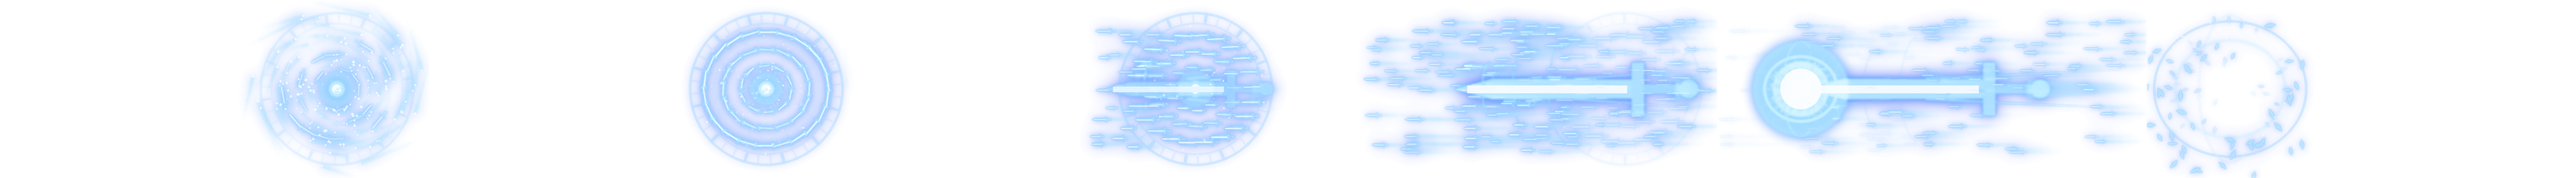
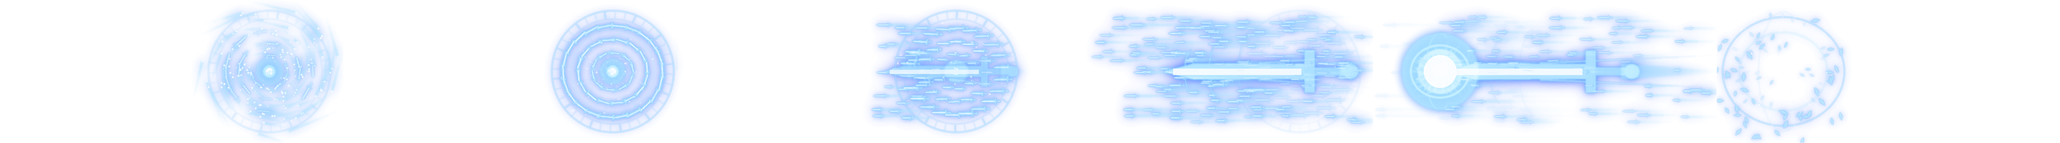
Chiêu Kiếm kéo dài 3 giây: 72 khung 24fps; dừng đồng hồ khi ra chiêu, máu quái tụt lúc nổ
fx/kiem.webp 72 khung (lưới 8x9, ô 480x200). Câu tiếp hiện khi chiêu gần xong (Enter để bỏ qua),
đồng hồ trận tạm dừng trong lúc diễn nên không mất giờ. ?v=20261127d

Claude-Session: https://claude.ai/code/session_01WRSCxLDvN3nPvcbD5zp5MC

diff --git a/hoc-tieng-trung/rpg.js b/hoc-tieng-trung/rpg.js
@@ -545,7 +545,7 @@ function gArSpawn(html, x, y, ms) { // x, y: % trong sân đấu
 // hoạt ảnh đòn đánh thường theo nhân vật: sprite sheet PNG/WebP trong suốt (fx/<id>.*, tạo bằng tools/fx/gen_<id>.py)
 // n khung xếp lưới cols cột (hàng tự tính), chạy theo đồng hồ thật (requestAnimationFrame) nên không khựng.
 // fps: tốc độ đều; hoặc ms: [thời gian từng khung] (vd sheet 6 ô vẽ bằng AI). hit: khung quái bắt đầu trúng đòn (nổ)
-const GASH = { kiem: { src: 'fx/kiem.webp', n: 24, cols: 6, fps: 30, hit: 16 } };
+const GASH = { kiem: { src: 'fx/kiem.webp', n: 72, cols: 8, fps: 24, hit: 50 } };
 const gAshOf = () => GASH[(S.hero && S.hero.char) || 'kiem'];
 function gPreloadAsh() { const a = gAshOf(); if (a && !a.img) { a.img = new Image(); a.img.src = a.src; } }
 function gAtkSheet(ar) {
@@ -569,7 +569,7 @@ function gAtkSheet(ar) {
   };
   show(0); cur = 0; requestAnimationFrame(tick);
   const hit = a.hit != null ? a.hit : Math.round(n * 2 / 3);
-  return { hitAt: hit ? ends[hit - 1] : 0 };
+  return { hitAt: hit ? ends[hit - 1] : 0, dur: ends[n - 1] };
 }
 // kind: 'atk' (mình đánh trúng), 'miss' (mình đánh trượt), 'hurt' (quái gây sát thương khi trả lời sai), 'block' (đỡ được), 'dot' (độc)
 function gArenaFx(kind, o) {
@@ -583,6 +583,7 @@ function gArenaFx(kind, o) {
       if (!sh) gArSpawn('<div class="ar-sl"></div>', 6, 38, 400); if (o.crit) { gArSpawn('<div class="ar-sl" style="transform:rotate(30deg)"></div>', 8, 30, 400); gArReplay(ar, 'quake'); }
       gArSpawn(`<div class="ar-n ${o.crit ? 'crit' : ''}">${o.crit ? '<small style="font-size:15px">CHÍ MẠNG</small><br>' : ''}-${o.dmg}</div>`, 25, 20);
     }, sh ? sh.hitAt : 160);
+    return sh;
   } else if (kind === 'miss') {
     gArReplay(P, 'lunge'); setTimeout(() => { gArReplay(B, 'dodge'); gArSpawn('<div class="ar-n info">Trượt!</div>', 24, 22); }, 160);
   } else if (kind === 'hurt' || kind === 'block') {
@@ -628,7 +629,7 @@ function gAnswer(i) {
   const btns = [...document.querySelectorAll('#gb-o .opt')];
   btns[i].classList.add(right ? 'ok' : 'no'); const okIdx = q.opts.findIndex(o => o.ok); btns[okIdx].classList.add('ok');
   if (q.speakOnAnswer && q.word) speak(q.word);
-  let log = '', ult = null;
+  let log = '', ult = null, fxs = null;
   const dr = rpgOnAnswer(right);
   if (dr) GB.drops.push(dr);
   if (right) {
@@ -644,7 +645,7 @@ function gAnswer(i) {
       const uh = gHit(), ud = Math.round((uh.miss ? Math.max(1, GB.st.atk * GB.mu.dmg - W.def * .5) : uh.dmg) * GULT_MULT * (window.fxUltMul ? fxUltMul() : 1)), ue = gUltEl();
       total += ud; ult = ue; log = `🌟 <b>Chiêu cuối ${GULT[ue].h} ${esc(GULT[ue].n)}</b>: ${ud} sát thương<br>` + log;
     }
-    if (total && !ult) gArenaFx('atk', { dmg: total, crit: h.crit });
+    if (total && !ult) fxs = gArenaFx('atk', { dmg: total, crit: h.crit });
     if (total) {
       W.hp = Math.max(0, W.hp - total); W.dmg += total; GB.dmg += total;
       if (GB.st.fx.vamp) { const hl = Math.round(total * GB.st.fx.vamp / 100); GB.php = Math.min(GB.pmax, GB.php + hl); if (hl) log += ` · hồi ${hl} HP`; }
@@ -659,7 +660,8 @@ function gAnswer(i) {
     if (bs.ab === 'time') { GB.endAt -= 4000; log += ' · -4 giây'; }
     if (bs.ab === 'poison') { GB.poison = Math.min(5, GB.poison + 1); log += ` · trúng độc x${GB.poison}`; }
   }
-  gBars();
+  // có hoạt ảnh chiêu riêng: thanh máu quái tụt đúng lúc kiếm khí nổ
+  if (fxs) { setTimeout(() => { if (GB && !GB.over) gBars(); }, fxs.hitAt); } else gBars();
   $('#gb-log').innerHTML = `${log}<div class="mut" style="margin-top:4px">${q.expl}</div>${dr ? gDropHTML(dr) : ''}`;
   // sang câu tiếp: tự động sau 1,1 giây (sai: 1,7 giây) hoặc ngay khi bấm Enter (GB.goNext)
   const goQ = () => {
@@ -669,10 +671,16 @@ function gAnswer(i) {
     gNextQ();
   };
   const next = () => {
-    if (W.hp <= 0) return setTimeout(() => gEndBattle('win'), 900);
+    if (W.hp <= 0) return setTimeout(() => gEndBattle('win'), 900 + (fxs ? fxs.hitAt : 0));
     if (GB.php <= 0) return setTimeout(() => gEndBattle('dead'), 900);
     GB.goNext = goQ; GB.nt = setTimeout(goQ, right ? 1100 : 1700);
   };
+  if (fxs) { // hoạt ảnh chiêu dài (vd Kiếm 3 giây): dừng đồng hồ, câu tiếp hiện khi chiêu xong (Enter để bỏ qua)
+    GB.pauseAt = Date.now(); const tm = $('#gb-tm'); if (tm) tm.textContent = '⏸';
+    if (W.hp <= 0) return next();
+    GB.goNext = goQ; GB.nt = setTimeout(goQ, Math.max(1100, fxs.dur - 250));
+    return;
+  }
   if (!ult) return next();
   // chiêu cuối: dừng đồng hồ từ lúc tung chiêu đến khi câu hỏi mới hiện ra
   GB.pauseAt = Date.now(); const tm = $('#gb-tm'); if (tm) tm.textContent = '⏸';

diff --git a/hoc-tieng-trung/index.html b/hoc-tieng-trung/index.html
@@ -103,7 +103,7 @@ img[src*="chars/"]{background:radial-gradient(circle at 50% 42%,#5a5288 0%,#2a26
 </style>
 <link rel="preconnect" href="https://fonts.googleapis.com"><link rel="preconnect" href="https://fonts.gstatic.com" crossorigin>
 <link rel="stylesheet" href="https://fonts.googleapis.com/css2?family=Noto+Serif:wght@600;700&display=swap">
-<link rel="stylesheet" href="theme.css?v=20261127c">
+<link rel="stylesheet" href="theme.css?v=20261127d">
 </head>
 <body>
 <div class="wrap">
@@ -131,9 +131,9 @@ img[src*="chars/"]{background:radial-gradient(circle at 50% 42%,#5a5288 0%,#2a26
 <script src="audio-data.js"></script>
 <script src="avatars-data.js"></script>
 <script src="game-data.js"></script>
-<script src="rpg-data.js?v=20261127c"></script>
-<script src="rpg.js?v=20261127c"></script>
-<script src="ult-fx.js?v=20261127c"></script>
+<script src="rpg-data.js?v=20261127d"></script>
+<script src="rpg.js?v=20261127d"></script>
+<script src="ult-fx.js?v=20261127d"></script>
 <script>
 // Báo lỗi dễ hiểu nếu các file đi kèm không tải được (ví dụ xem trước dạng data: trong khung trình duyệt của Claude)
 window.addEventListener("DOMContentLoaded", function () {
@@ -3146,11 +3146,11 @@ applyFreeze();
 render();
 if (S.refunded) { toast('Đã hoàn ' + S.refunded + ' 💎 cho đồ trang phục cũ, hãy dùng để mua nhân vật mới!'); S.refunded = 0; save(); }
 </script>
-<script src="features.js?v=20261127c"></script>
+<script src="features.js?v=20261127d"></script>
 <script src="https://www.gstatic.com/firebasejs/10.12.2/firebase-app-compat.js"></script>
 <script src="https://www.gstatic.com/firebasejs/10.12.2/firebase-auth-compat.js"></script>
 <script src="https://www.gstatic.com/firebasejs/10.12.2/firebase-firestore-compat.js"></script>
-<script src="cloud.js?v=20261127c"></script>
-<script src="sect.js?v=20261127c"></script>
+<script src="cloud.js?v=20261127d"></script>
+<script src="sect.js?v=20261127d"></script>
 </body>
 </html>

diff --git a/hoc-tieng-trung/tools/fx/gen_kiem.py b/hoc-tieng-trung/tools/fx/gen_kiem.py
@@ -11,11 +11,11 @@ import math, os, random
 import numpy as np
 from PIL import Image, ImageDraw
 
-CW, CH = 600, 250          # kích thước 1 ô xuất ra (2.4:1 như sân đấu)
+CW, CH = 480, 200          # kích thước 1 ô xuất ra (2.4:1 như sân đấu)
 # toạ độ vẽ theo hệ 720x300; vẽ siêu mẫu x2 so với ô xuất rồi thu nhỏ để mịn
 SS = 2 * CW / 720
 W, H = int(720 * SS), int(300 * SS)
-N, COLS = 24, 6            # 24 khung, lưới 6 cột x 4 hàng
+N, COLS = 72, 8            # 72 khung (3 giây ở 24 khung/giây), lưới 8 cột x 9 hàng
 FX_DIR = os.path.join(os.path.dirname(__file__), '..', '..', 'fx')
 
 # màu phát sáng (tuyến tính, sẽ được nén bằng 1-exp)
@@ -235,7 +235,7 @@ def render(t, S):
     # lõi sáng ở tâm trận
     c = env(t, 0, .2, .4, .55)
     if c > 0:
-        pulse = 1 + .12 * math.sin(t * 60)
+        pulse = 1 + .12 * math.sin(t * 140)
         dot(soft, cx, cy, (14 + 16 * c) * pulse, .85 * c)
         dot(body, cx, cy, (6 + 7 * c) * pulse, c)
         dot(core, cx, cy, (3 + 5 * c) * pulse, 1.25 * c)
@@ -243,7 +243,7 @@ def render(t, S):
     # 2) trận kiếm xoay
     f = env(t, .06, .22, .5, .62)
     if f > 0:
-        rot = t * 9.0
+        rot = t * 16.0
         rune_ring(body, cx, cy, 128, .5 * f, rot * .3, 36)
         rune_ring(soft, cx, cy, 88, .4 * f, -rot * .45, 24)
         pl = sm(.33, .45, t)
@@ -251,7 +251,7 @@ def render(t, S):
                   point_left=pl, appear=sm(.04, .26, t))
         for (a, rr, sz, ph) in S.sparks[:60]:
             r = rr * 125
-            dot(core, cx + math.cos(a + t * 4) * r, cy + math.sin(a + t * 4) * r * .9, sz, .55 * f * (0.5 + .5 * math.sin(ph * 6 + t * 30)))
+            dot(core, cx + math.cos(a + t * 7) * r, cy + math.sin(a + t * 7) * r * .9, sz, .55 * f * (0.5 + .5 * math.sin(ph * 6 + t * 80)))
 
     # 3) kiếm bay vụt sang trái
     for (dy, t0, L, w, k, v) in S.flyers:
@@ -286,7 +286,7 @@ def render(t, S):
     e = env(t, .46, .52, .7, .78)
     if e > 0:
         for (dy, ph, L, w, k, da) in S.escort:
-            x = 700 - ((ph * 520 + (t - .46) * 1900) % 560)
+            x = 700 - ((ph * 520 + (t - .46) * 2600) % 560)
             streak(soft, x + L / 2, cy + dy, x + L / 2 + 70, cy + dy, 1.4, .2, k * e, 0, seg=5)
             draw_sword(core, body, x, cy + dy, L, math.pi + da, w, k * e)
 
@@ -325,7 +325,7 @@ def render(t, S):
         for (a, rr, k, isd, ph) in S.dust:
             r = 20 + rr * 140 * (.4 + .6 * pd)
             x, y = ix + math.cos(a) * r, iy + math.sin(a) * r * .85 - 28 * pd * ph
-            tw = .6 + .4 * math.sin(ph * 9 + t * 40)
+            tw = .6 + .4 * math.sin(ph * 9 + t * 100)
             if isd:
                 diamond(body, x, y, 1.2 + ph, k * d6 * tw, a, 3)
             else:
@@ -345,7 +345,7 @@ def build(n, cols, out):
         sheet.paste(render(t, S), ((i % cols) * CW, (i // cols) * CH))
     os.makedirs(os.path.dirname(out), exist_ok=True)
     if out.endswith('.webp'):
-        sheet.save(out, quality=86, method=6)   # bản dùng trong game (nhẹ hơn PNG ~3 lần, vẫn có alpha)
+        sheet.save(out, quality=80, method=6)   # bản dùng trong game (nhẹ hơn PNG ~3 lần, vẫn có alpha)
         sheet.save(out[:-5] + '.png', optimize=True)
     else:
         sheet.save(out, optimize=True)
